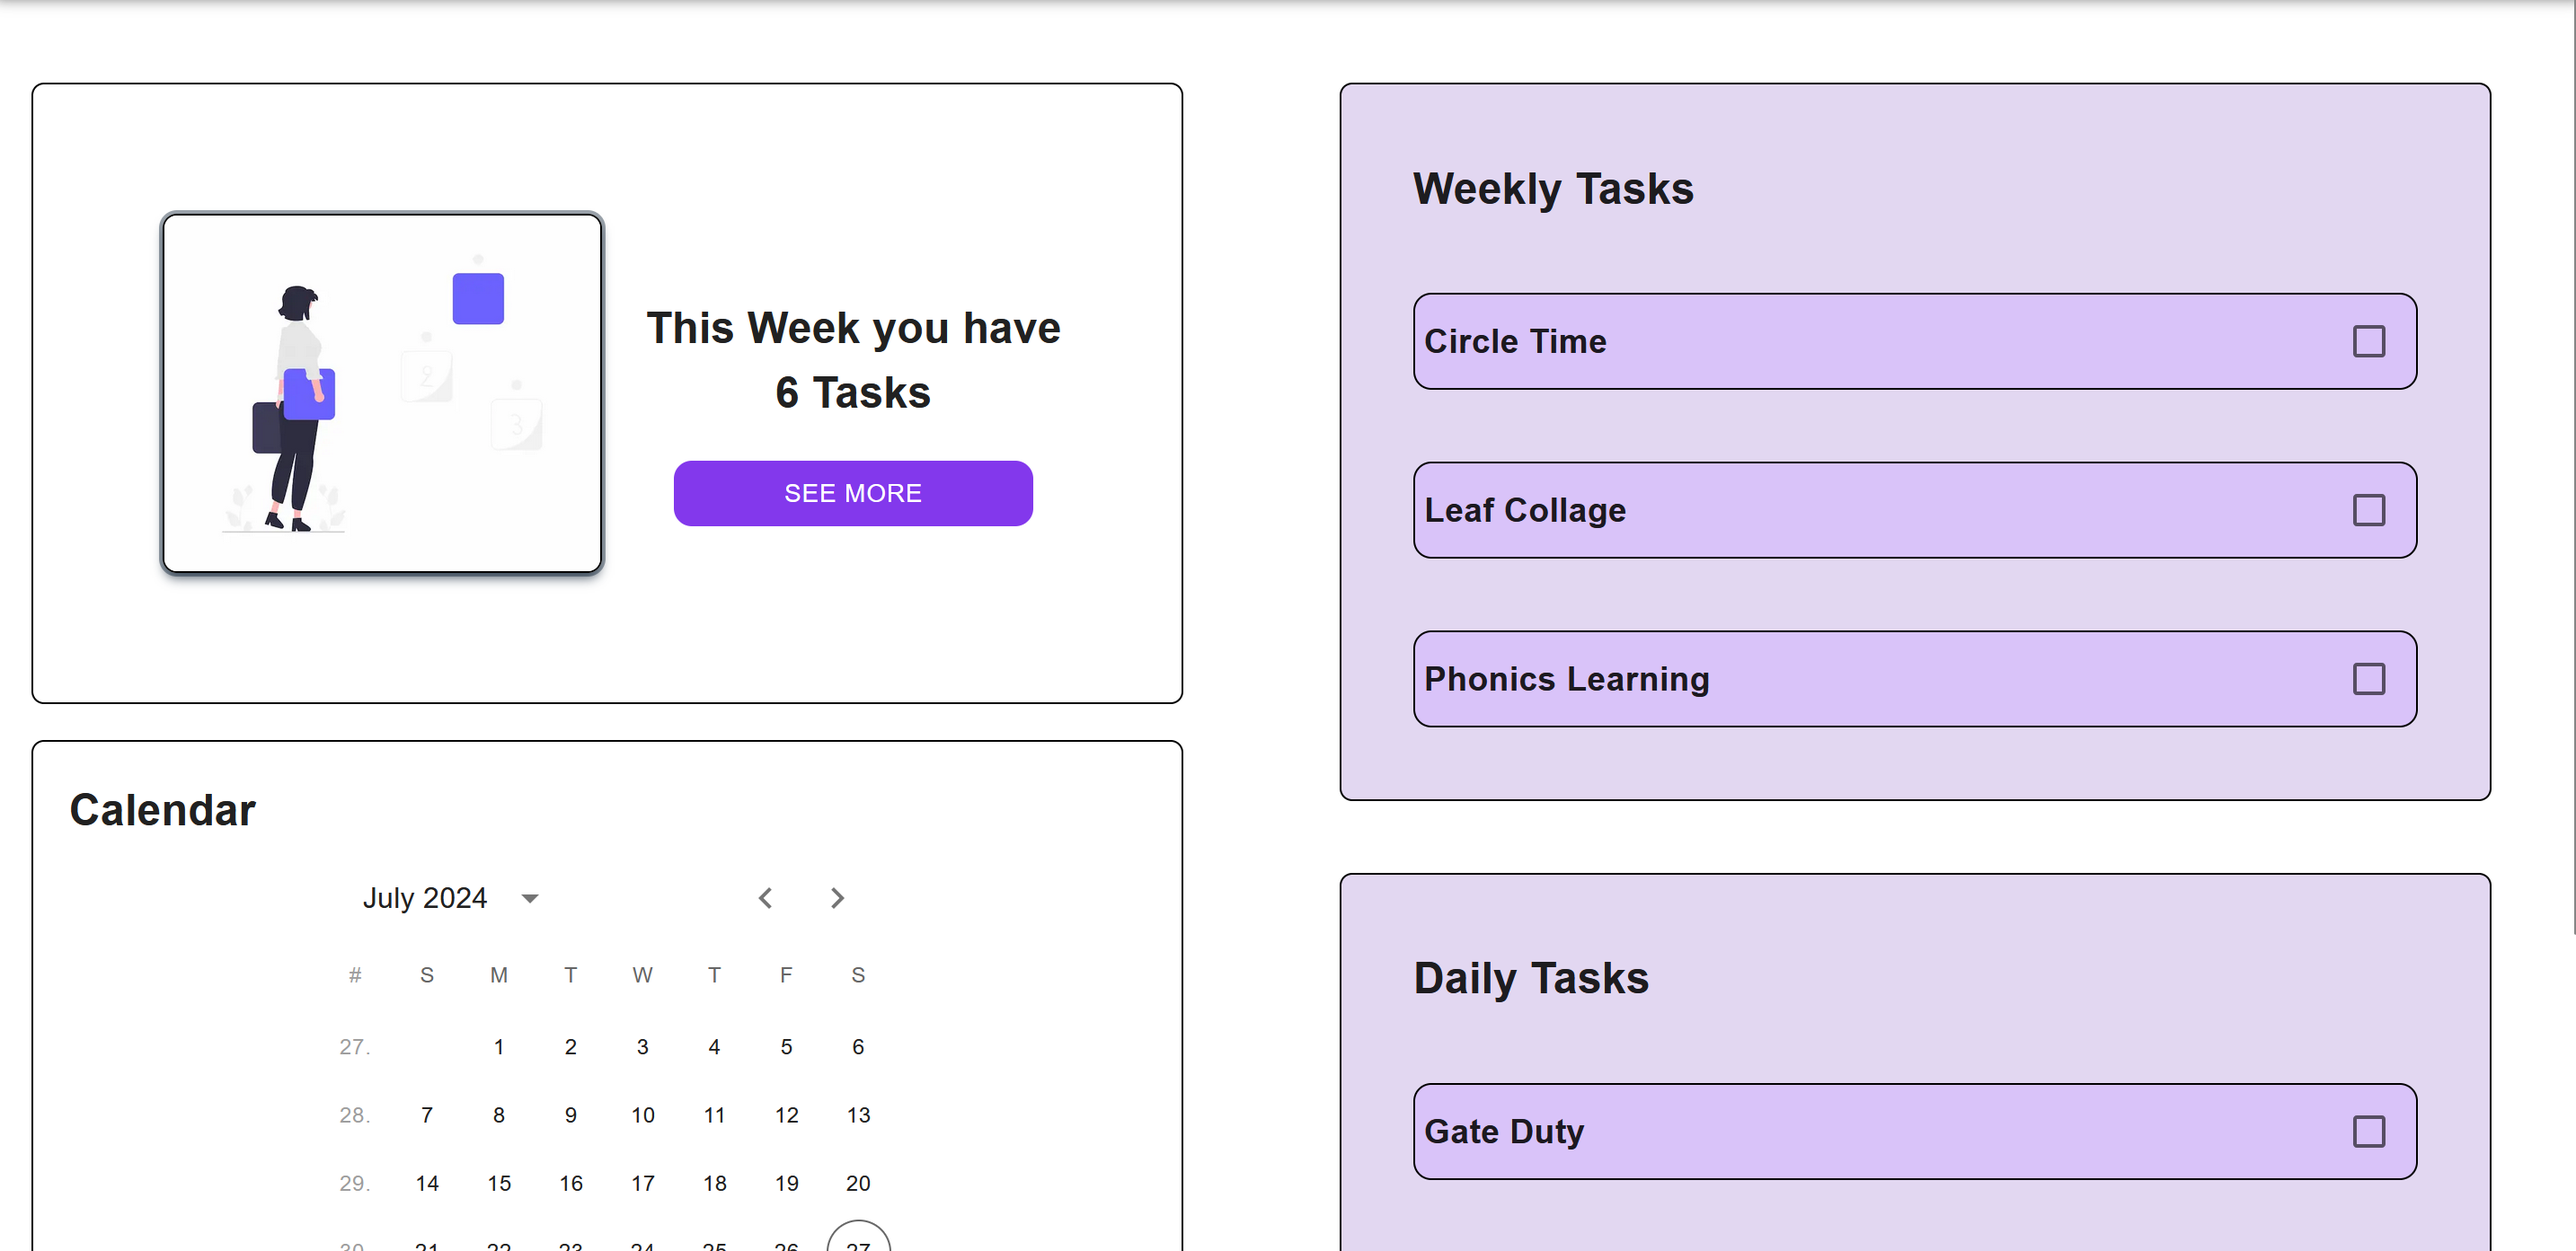
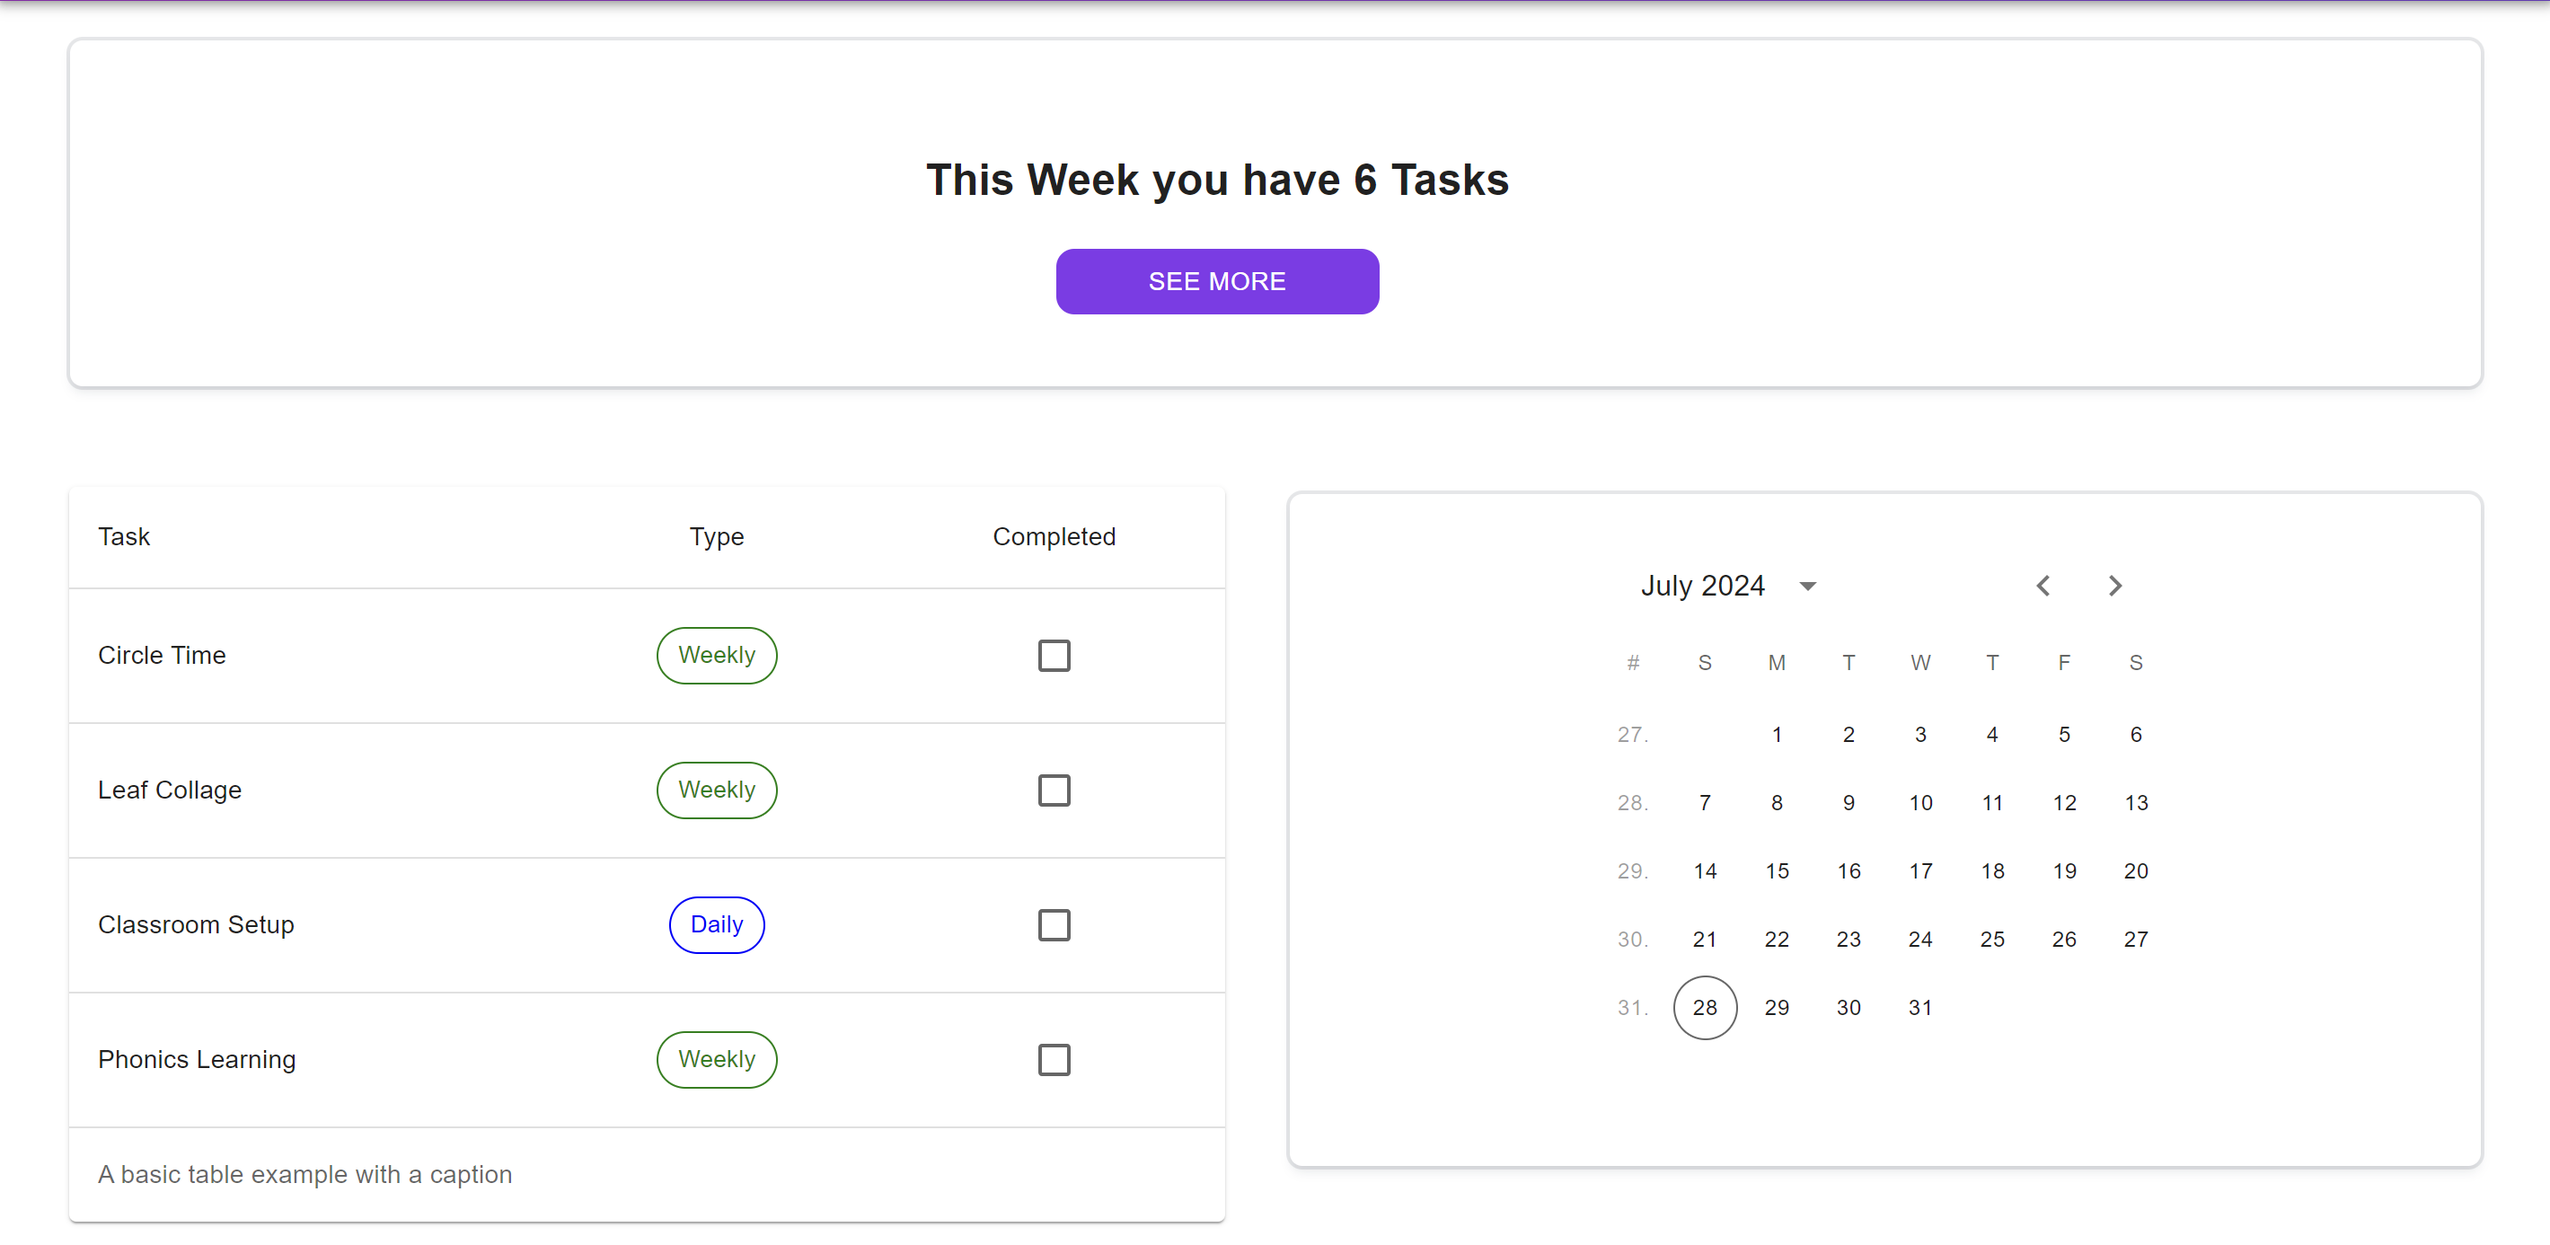
added: styled dashboard and homepage

diff --git a/edutask/Components/TaskGrids.jsx b/edutask/Components/TaskGrids.jsx
@@ -1,9 +1,10 @@
 "use client";
 import React, { useState, useEffect } from 'react';
 import { Box, Grid, Skeleton } from '@mui/material';
-import AccessibleTable from './TestTable';
+import AccessibleTable from './TaskTable';
 import SmallTaskCard from './SmallTaskCard';
 import Calendar from './Calendar';
+import TaskHeader from './TaskHeader';
 
 const TaskGrids = ({ tasks, isLoading }) => {
   const [completed, setCompleted] = useState([]);
@@ -34,16 +35,27 @@ const TaskGrids = ({ tasks, isLoading }) => {
         justifyContent: 'center',
         marginTop: '30px',
         alignItems: 'center',
+        padding:"20px"
       }}
     >
-      <Grid container spacing={2}>
+      <Box
+        sx={{
+          width: '97%',
+          borderRadius: '7px',
+          padding: '20px',
+          boxShadow: "rgba(6, 24, 44, 0.1) 0px 0px 0px 2px, rgba(6, 24, 44, 0.1) 0px 4px 6px -1px, rgba(255, 255, 255, 0.08) 0px 1px 0px inset",
+        }}
+      >
+        <TaskHeader />
+      </Box>
+      <Grid container spacing={2} sx={{ marginTop: '20px' }}>
         <Grid item xs={12} md={6}>
           <Box
             sx={{
-              borderRadius: '7px',
               padding: '20px',
-              width: '90%',
-              margin: '20px',
+              width: '100%',
+              
+              borderRadius: '7px',
             }}
           >
             {isLoading || !isMounted ? (
@@ -52,8 +64,8 @@ const TaskGrids = ({ tasks, isLoading }) => {
                   sx={{
                     border: '1px solid black',
                     borderRadius: '10px',
-                    width: '90%',
-                    margin: '20px',
+                    width: '100%',
+                    margin: '20px 0',
                     padding: '20px',
                   }}
                   key={index}
@@ -63,96 +75,18 @@ const TaskGrids = ({ tasks, isLoading }) => {
               <AccessibleTable tasks={combinedTasks} completedTasks={handleCompletedTasks} />
             )}
           </Box>
-          <Box
-            sx={{
-              border: '1px black solid',
-              borderRadius: '7px',
-              padding: '20px',
-              width: '90%',
-              margin: '20px',
-            }}
-          >
-            <h2 style={{ margin: 0 }}>Calendar</h2>
-            <Calendar />
-          </Box>
         </Grid>
         <Grid item xs={12} md={6}>
           <Box
             sx={{
-              display: 'flex',
-              flexDirection: 'column',
+              padding: '20px',
+              width: '97%',
+              boxShadow: "rgba(6, 24, 44, 0.1) 0px 0px 0px 2px, rgba(6, 24, 44, 0.1) 0px 4px 6px -1px, rgba(255, 255, 255, 0.08) 0px 1px 0px inset",
+              borderRadius: '7px',
+              marginTop:"24px"
             }}
           >
-            <Box
-              sx={{
-                backgroundColor: '#E2D7F1',
-                border: '1px black solid',
-                borderRadius: '7px',
-                padding: '20px',
-                width: '90%',
-                margin: '20px',
-              }}
-            >
-              <h2 style={{ padding: '20px', margin: 0 }}>Weekly Tasks</h2>
-              {isLoading || !isMounted ? (
-                Array.from({ length: 3 }).map((_, index) => (
-                  <Skeleton
-                    sx={{
-                      border: '1px solid black',
-                      borderRadius: '10px',
-                      width: '90%',
-                      margin: '20px',
-                      padding: '20px',
-                    }}
-                    key={index}
-                  />
-                ))
-              ) : (
-                weeklyTasks.map((task) => (
-                  <SmallTaskCard
-                    key={task.id}
-                    task={task}
-                    completedTasks={handleCompletedTasks}
-                    isCompleted={task.completed}
-                  />
-                ))
-              )}
-            </Box>
-            <Box
-              sx={{
-                backgroundColor: '#E2D7F1',
-                border: '1px black solid',
-                borderRadius: '7px',
-                padding: '20px',
-                width: '90%',
-                margin: '20px',
-              }}
-            >
-              <h2 style={{ paddingLeft: '20px' }}>Daily Tasks</h2>
-              {isLoading || !isMounted ? (
-                Array.from({ length: 3 }).map((_, index) => (
-                  <Skeleton
-                    sx={{
-                      border: '1px solid black',
-                      padding: '20px',
-                      width: '90%',
-                      margin: '20px',
-                      borderRadius: '10px',
-                    }}
-                    key={index}
-                  />
-                ))
-              ) : (
-                dailyTasks.map((task) => (
-                  <SmallTaskCard
-                    key={task.id}
-                    task={task}
-                    completedTasks={handleCompletedTasks}
-                    isCompleted={task.completed}
-                  />
-                ))
-              )}
-            </Box>
+            <Calendar />
           </Box>
         </Grid>
       </Grid>
@@ -161,3 +95,4 @@ const TaskGrids = ({ tasks, isLoading }) => {
 };
 
 export default TaskGrids;
+

diff --git a/edutask/Components/TaskHeader.jsx b/edutask/Components/TaskHeader.jsx
@@ -14,42 +14,32 @@ const TaskHeader = () => {
     <Box
       component="section"
       sx={{
-        p: 4,
-        width: { xs: " 90%", md: "95%", sm: "90%" }, // Set width to full for all screen sizes
+        width: { xs: "90%", md: "92%", sm: "90%" }, // Set width to full for all screen sizes
+ 
         height: "auto",
         flexShrink: 0,
-
-        margin: "30px",
         display: "flex",
-        justifyContent: "center",
+        justifyContent: "center", // Center horizontally
         flexDirection: { xs: "column", md: "row" },
-        alignItems: "center", // Center vertically and horizontally
         gap: "20px",
         margin: { xs: "20px" },
-        alignItems: "center",
       }}
     >
-      <Image
-        src={HeaderPic}
-        alt="task"
-        height={200}
+      <Box
         style={{
-          border: "1px solid black",
-          borderRadius: "8px",
-          boxShadow:
-            "rgba(6, 24, 44, 0.4) 0px 0px 0px 2px, rgba(6, 24, 44, 0.65) 0px 4px 6px -1px, rgba(255, 255, 255, 0.08) 0px 1px 0px inset",
-          marginBottom: { xs: "20px", md: "0" },
+          display: "flex", // Make the content wrapper a flex container
+          flexDirection: "column",
+          alignItems: "center", // Center vertically and horizontally within the wrapper
+          flex: { xs: "none", md: "1" }, // Only set flex for medium screens and above
         }}
-      />
-      
-      <div style={{ textAlign: "center", flex: { xs: "none", md: "1" } }}>
+      >
         <h1>This Week you have {taskCount} Tasks</h1>
         <Link href="/tasks">
           <Button
             sx={{
               backgroundColor: "#8338ec",
               color: "white",
-              width: "200px",
+              width: "180px",
               borderRadius: "10px",
               "&:hover": {
                 backgroundColor: "#6b2fbb",
@@ -60,9 +50,10 @@ const TaskHeader = () => {
             See more
           </Button>
         </Link>
-      </div>
+      </Box>
     </Box>
   );
 };
 
 export default TaskHeader;
+

diff --git a/edutask/Components/TaskTable.jsx b/edutask/Components/TaskTable.jsx
@@ -12,7 +12,7 @@ import Slide from '@mui/material/Slide';
 import Alert from '@mui/material/Alert';
 import DoneIcon from '@mui/icons-material/Done';
 
-export default function AccessibleTable({ tasks = [], completedTasks }) {
+export default function TaskTable({ tasks = [], completedTasks }) {
     const getTypeStyle = (taskType) => {
         switch (taskType) {
             case 'Daily':
@@ -40,7 +40,7 @@ export default function AccessibleTable({ tasks = [], completedTasks }) {
         setAlertOpen(false);
     };
 
- const firstSixTask = tasks.slice(0, 6);
+ const firstSixTask = tasks.slice(0, 4);
 
     return (
         <TableContainer component={Paper} style={{ overflowX: 'hidden' }}>
